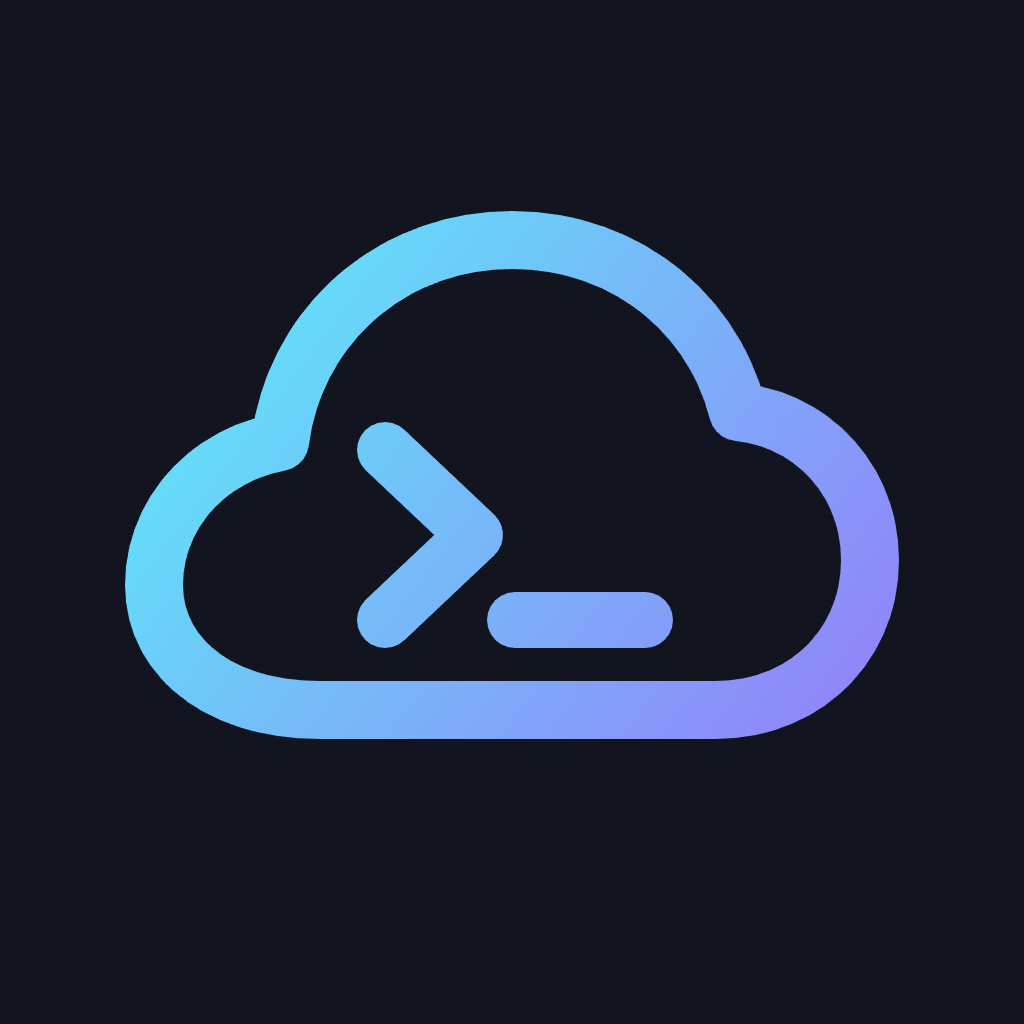
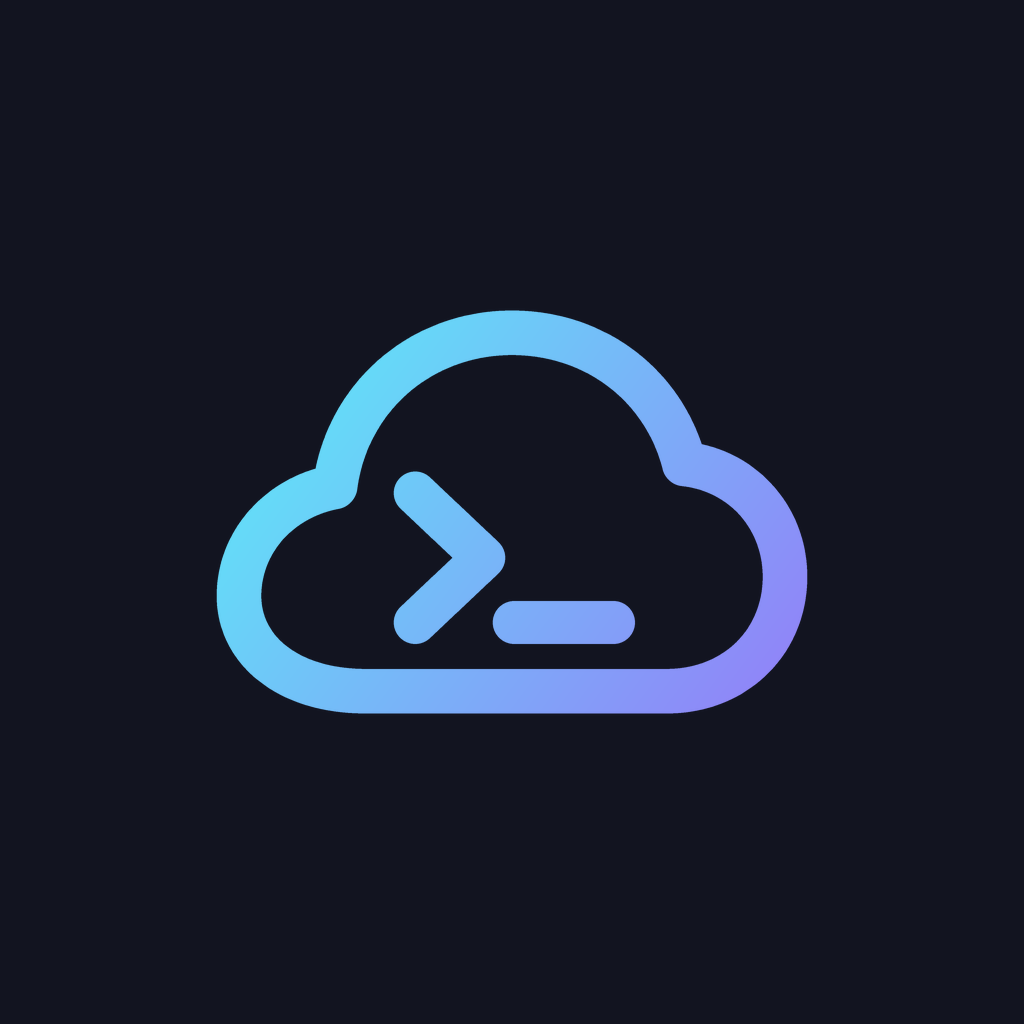
Fix Build

Changed region(s): [[0.125, 0.1875, 0.875, 0.7188]]

diff --git a/tools/render_icon.py b/tools/render_icon.py
@@ -1,0 +1,103 @@
+"""Render the LocalDrop icon from its vector geometry (design/icon.svg).
+
+Writes
+  design/icon-safe.svg      same artwork scaled into the Android adaptive-icon safe zone
+  src/assets/icon.png       1024x1024 safe-zone version  (default + Android launcher, never cropped)
+  src/assets/icon_windows.png  1024x1024 original proportions (desktop icons have no mask)
+
+Needs Pillow + numpy (dev only).  Usage:  python tools/render_icon.py
+"""
+from __future__ import annotations
+
+import re
+from pathlib import Path
+
+import numpy as np
+from PIL import Image, ImageDraw
+
+ROOT = Path(__file__).resolve().parents[1]
+SS = 4                                  # supersampling
+BG = (0x12, 0x14, 0x20)
+C0, C1 = (0x5E, 0xEA, 0xF8), (0x92, 0x82, 0xF8)
+G = (180, 260, 840, 760)                # gradient x1 y1 x2 y2 (user space)
+CLOUD = "M 320 710 H 715 C 805 710 870 645 870 560 C 870 482 814 420 738 412 C 712 310 622 240 512 240 C 392 240 295 325 280 442 C 205 456 154 516 154 585 C 154 656 218 710 320 710 Z"
+STROKES = [(CLOUD, 58), ("M 385 450 L 475 535 L 385 620", 56), ("M 515 620 H 645", 56)]
+SAFE_RADIUS = 313                       # 66dp of 108dp -> 61% of 1024, radius in px
+
+
+def flatten(d: str, step: float = 1.0):
+    toks = re.findall(r"[MHLCZ]|-?\d+(?:\.\d+)?", d)
+    pts, i, cur, start = [], 0, (0.0, 0.0), (0.0, 0.0)
+    num = lambda: float(toks.pop(0))
+    while toks:
+        cmd = toks.pop(0)
+        if cmd == "M":
+            cur = start = (num(), num()); pts.append(cur)
+        elif cmd in "LH":
+            nxt = (num(), num()) if cmd == "L" else (num(), cur[1])
+            n = max(2, int(np.hypot(nxt[0] - cur[0], nxt[1] - cur[1]) / step))
+            pts += [(cur[0] + (nxt[0] - cur[0]) * k / n, cur[1] + (nxt[1] - cur[1]) * k / n) for k in range(1, n + 1)]
+            cur = nxt
+        elif cmd == "C":
+            p1, p2, p3 = (num(), num()), (num(), num()), (num(), num())
+            n = 400
+            for k in range(1, n + 1):
+                t = k / n; u = 1 - t
+                pts.append((u**3 * cur[0] + 3 * u * u * t * p1[0] + 3 * u * t * t * p2[0] + t**3 * p3[0],
+                            u**3 * cur[1] + 3 * u * u * t * p1[1] + 3 * u * t * t * p2[1] + t**3 * p3[1]))
+            cur = p3
+        elif cmd == "Z":
+            pts.append(start); cur = start
+    return pts
+
+
+def geometry():
+    return [(flatten(d), w) for d, w in STROKES]
+
+
+def fit_transform():
+    """scale + shift that centres the artwork on the canvas and keeps it inside the safe circle."""
+    allpts = [(p, w) for pts, w in geometry() for p in pts]
+    xs = [p[0] for p, w in allpts]; ys = [p[1] for p, w in allpts]
+    cx = (min(xs) - 29 + max(xs) + 29) / 2          # outer stroke edge ~ half stroke width
+    cy = (min(ys) - 29 + max(ys) + 29) / 2
+    far = max(np.hypot(p[0] - cx, p[1] - cy) + w / 2 for p, w in allpts)
+    return SAFE_RADIUS / far, cx, cy
+
+
+def render(scale: float, cx: float, cy: float, size: int = 1024) -> Image.Image:
+    S = size * SS
+    k = scale * SS
+    mask = Image.new("L", (S, S), 0)
+    d = ImageDraw.Draw(mask)
+    for pts, w in geometry():
+        r = w / 2 * k
+        for x, y in pts:
+            X, Y = (x - cx) * k + S / 2, (y - cy) * k + S / 2
+            d.ellipse([X - r, Y - r, X + r, Y + r], fill=255)
+    mask = mask.resize((size, size), Image.LANCZOS)
+    yy, xx = np.mgrid[0:size, 0:size].astype(np.float64)
+    ux, uy = (xx + 0.5 - size / 2) / scale + cx, (yy + 0.5 - size / 2) / scale + cy   # back to user space
+    x1, y1, x2, y2 = G
+    t = np.clip(((ux - x1) * (x2 - x1) + (uy - y1) * (y2 - y1)) / ((x2 - x1) ** 2 + (y2 - y1) ** 2), 0, 1)
+    grad = np.stack([C0[i] + (C1[i] - C0[i]) * t for i in range(3)], axis=-1).astype(np.uint8)
+    img = Image.new("RGB", (size, size), BG)
+    img.paste(Image.fromarray(grad, "RGB"), mask=mask)
+    return img
+
+
+def safe_svg(scale: float, cx: float, cy: float) -> str:
+    src = (ROOT / "design" / "icon.svg").read_text(encoding="utf-8")
+    head, rest = src.split("<!-- Контур облака -->")
+    body = rest.replace("</svg>", "").rstrip()
+    body = "\n".join("  " + ln if ln.strip() else ln for ln in body.splitlines())
+    tf = f"translate(512 512) scale({scale:.4f}) translate({-cx:g} {-cy:g})"
+    return f'{head}<g transform="{tf}">\n  <!-- Контур облака -->{body}\n  </g>\n</svg>\n'
+
+
+if __name__ == "__main__":
+    s, cx, cy = fit_transform()
+    print(f"safe-zone scale={s:.4f}  artwork centre=({cx:g},{cy:g})")
+    render(1.0, 512, 512).save(ROOT / "src/assets/icon_windows.png")   # original proportions, as designed
+    render(s, cx, cy).save(ROOT / "src/assets/icon.png")
+    (ROOT / "design" / "icon-safe.svg").write_text(safe_svg(s, cx, cy), encoding="utf-8")
